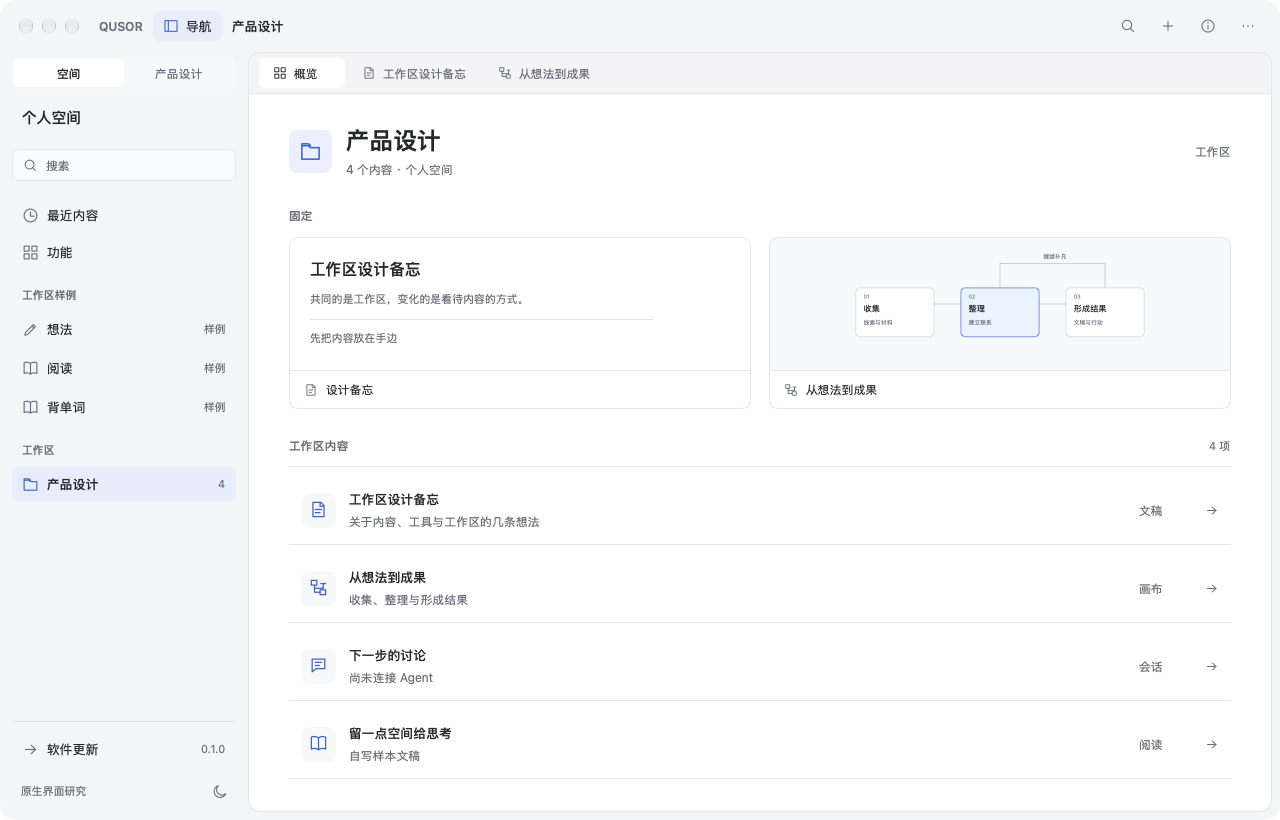
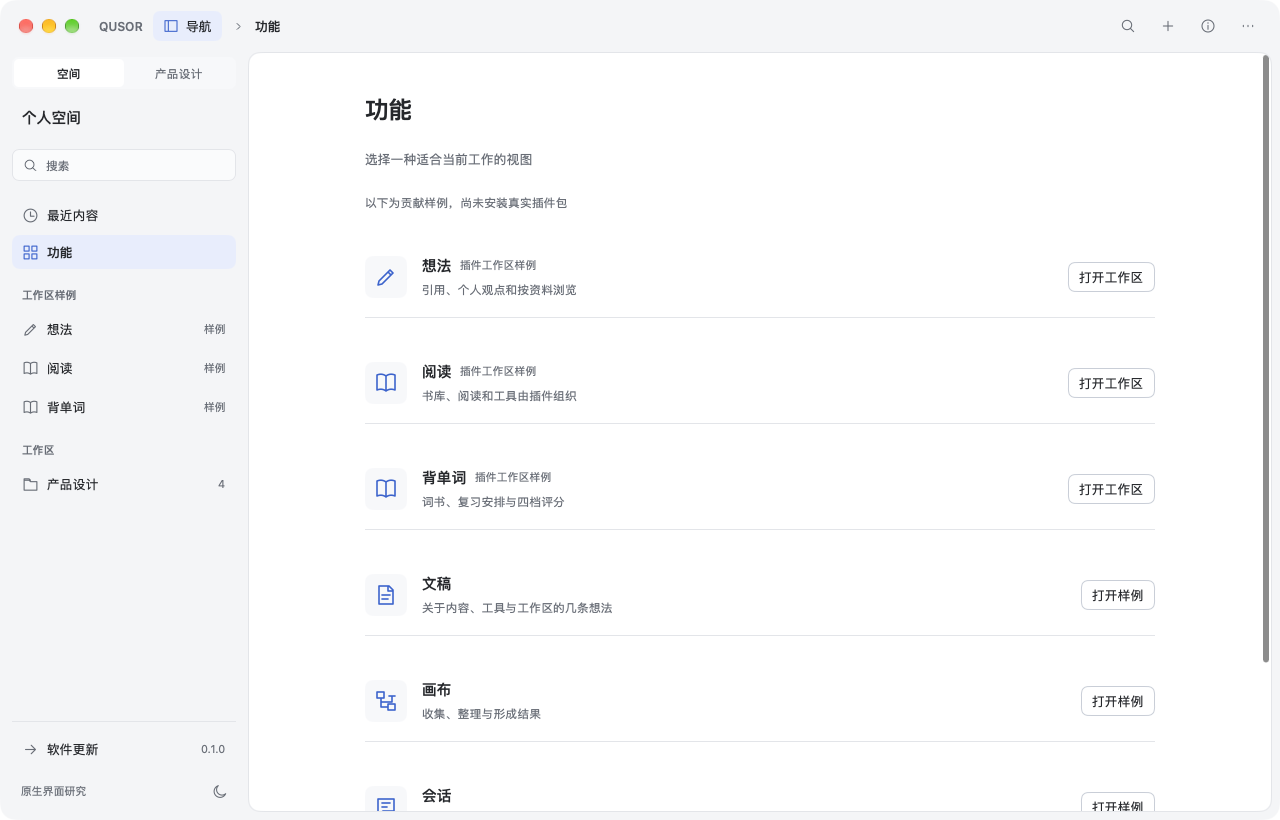
docs: pin the draft release evidence to normalized history
Rebuild the draft from the normalized commit, record its exact target SHA and new asset digests, and replace pre-rewrite short commit references.

diff --git a/docs/product/release-and-update.md b/docs/product/release-and-update.md
@@ -12,7 +12,7 @@
 
 2026-11-11 同日执行：公开前隐私检查通过后，仓库已由 private 转为 public（`https://github.com/csic21/qusor`），历史已按下列规则重写。此后 `releases/latest/download/` 可免认证读取，自动更新的更新源前提成立。
 
-2026-11-12 首次云端发行验收：Release workflow [run 43136573631](https://github.com/csic21/qusor/actions/runs/43136573631) 在 `main@e1c025e` 成功完成 macOS 打包、签名清单与 draft 创建。draft `v0.1.0` 含 21,781,955 字节的 arm64 归档、`latest.json` 与 `latest.json.sig`；清单大小/SHA-256、Ed25519 域隔离签名、ad hoc code signature 和实际窗口启动均已复核。此前 run 42995272099 的空 `*.zip` glob 失败已由 `e1c025e` 修复。详见 [GitHub draft Release 验收](../../experiments/nsh-reader/evidence/github-release/README.md)。
+2026-11-12 首次云端发行验收：Release workflow [run 43142491761](https://github.com/csic21/qusor/actions/runs/43142491761) 在 `main@62a82e6` 成功完成 macOS 打包、签名清单与 draft 创建，draft 的 `targetCommitish` 固定为该 SHA。draft `v0.1.0` 含 21,786,549 字节的 arm64 归档、`latest.json` 与 `latest.json.sig`；清单大小/SHA-256、Ed25519 域隔离签名、ad hoc code signature 和实际窗口启动均已复核。此前 run 42995272099 的空 `*.zip` glob 失败已由后续提交修复。详见 [GitHub draft Release 验收](../../experiments/nsh-reader/evidence/github-release/README.md)。
 
 ## 现状（2026-11-12 核对）
 
@@ -22,15 +22,15 @@
 | 版本号 | 应用为 `0.1.0`/`build 1`；已创建 draft `v0.1.0`，尚未发布 | [Release 验收](../../experiments/nsh-reader/evidence/github-release/record.json) |
 | 更新签名密钥 | 更新公钥已内置；私钥保存在本机 `.local/keys` 与 GitHub secret `NSH_UPDATE_KEY`，未提交。draft 清单已用该密钥签名并由独立 OpenSSL 复算通过 | 同左 |
 | 打包 | 生产入口使用 `nsh package --target macos`，产出 ad hoc `QUSOR.app` 和归档；实验目录仍有早期自建 Preview 包装 | `apps/qusor`、[Release 验收](../../experiments/nsh-reader/evidence/github-release/README.md) |
-| CI | `foundation.yml` 三 OS Core/库任务通过；`release.yml` 的 macOS package 与 publish 在 run 43136573631 首次完整通过并创建 draft | run 43136573631；[平台缺口](../../adapters/extension-store/tests/platform_profile.rs) |
+| CI | `foundation.yml` 三 OS Core/库任务通过；`release.yml` 的 macOS package 与 publish 在 run 43142491761 首次完整通过并创建固定 SHA 的 draft | run 43142491761；[平台缺口](../../adapters/extension-store/tests/platform_profile.rs) |
 | 移动端 | 仅 5 个 target 的**库交叉编译**通过；无 iOS/Android 宿主、无设备运行、无分发 | 同 run 的 `portable-libraries` 全部通过 |
 
 ### CI 失败根因与处理（2026-11-11）
 
 - **ubuntu**：`adapters/extension-store/src/verified_cache_tests.rs` 的断言停在“支持 3 个 Host API”，实际已是 4（未提交工作树为 5）。该文件带 `#![cfg(target_os = "linux")]`，macOS 本机不编译，所以长期没被发现。
 - **windows**：`adapters/extension-store/tests/component.rs` 三例在 `Store::open_for_host` 处失败，对应 [跨平台结果](../../experiments/nsh-reader/CROSS_PLATFORM_RESULTS.md) 已记录的 Windows 私有存储/文件适配缺口。
-- **ubuntu**：`adapters/extension-store/src/verified_cache_tests.rs` 的 Host API 数量断言已改为预算断言（`<= 8`），“不支持版本”改用 `u16::MAX`（提交 `12519cd`），不再随 API 增加失效。
-- **windows**：`adapters/extension-store/tests/component.rs` 的三例真实 store 场景只在 Unix 有合格文件系统 profile（0700 目录、no-follow 包读取、单一 writer lease）。Windows 的私有存储 ACL 与 SQLite/blob 适配器仍未实现，因此测试按平台跳过（`#![cfg(unix)]`），另加 `tests/platform_profile.rs`：Unix 断言能打开并持有 writer lease，Windows 断言 `StoreErrorCode::Unsupported` 且诊断含 `qualified native filesystem profile`。这样 Windows 任务仍然运行并固定“故意拒绝”，而不是把跳过当成能力覆盖（提交 `8851c10`、`78f0666`）。
+- **ubuntu**：`adapters/extension-store/src/verified_cache_tests.rs` 的 Host API 数量断言已改为预算断言（`<= 8`），“不支持版本”改用 `u16::MAX`（提交 `113950b`），不再随 API 增加失效。
+- **windows**：`adapters/extension-store/tests/component.rs` 的三例真实 store 场景只在 Unix 有合格文件系统 profile（0700 目录、no-follow 包读取、单一 writer lease）。Windows 的私有存储 ACL 与 SQLite/blob 适配器仍未实现，因此测试按平台跳过（`#![cfg(unix)]`），另加 `tests/platform_profile.rs`：Unix 断言能打开并持有 writer lease，Windows 断言 `StoreErrorCode::Unsupported` 且诊断含 `qualified native filesystem profile`。这样 Windows 任务仍然运行并固定“故意拒绝”，而不是把跳过当成能力覆盖（提交 `8391d9c`、`ff5045b`）。
 - 结果：2026-11-11 run 42987643346 三个 OS 的 `Core foundation` 与五个 `portable-libraries` 全部通过。Windows 仍不能运行 store/知识库；CI 绿不代表 Windows 产品资格。
 
 ## 固定 NSH 基线已有能力
@@ -153,7 +153,7 @@ cd apps/qusor && CARGO_PROFILE_RELEASE_STRIP=none \
 1. ~~修 Windows store 测试（或显式标记平台跳过并记录缺口），让 CI 恢复绿。~~ 已完成：Windows 任务显式固定拒绝路径，run 42987643346 三 OS 通过；Windows 能力缺口保留。
 2. ~~新建 `apps/qusor` 入口，跑通 `nsh package --target macos` 实窗。~~ 已完成（ad hoc `.app`，见下方“生产应用首次打包”）。
 3. ~~写 `version`/`build`/`updater`/图标，本地用 `nsh update-manifest` 与本地 HTTP 自测一次更新流程。~~ 更新 UI 与本地回环自测已实现，实测结果见下方“应用内自动更新本机实测”。
-4. ~~加发版 workflow，先 `workflow_dispatch` 出 draft Release。~~ 已完成：run 43136573631 的 macOS draft 与产物验收通过。
+4. ~~加发版 workflow，先 `workflow_dispatch` 出 draft Release。~~ 已完成：run 43142491761 的 macOS draft 与产物验收通过，且 draft 固定到源码 SHA。
 5. 仓库已转 public；人工复核 draft 后发布，并用公开 `releases/latest/download` 验证真实在线更新。**首个发布必须已内置 updater 配置**，否则已装版本收不到自动更新。
 6. 再推进 Android/iOS 打包与真机资格。
 

diff --git a/experiments/nsh-reader/evidence/github-release/README.md b/experiments/nsh-reader/evidence/github-release/README.md
@@ -4,15 +4,15 @@
 
 ## 结果
 
-GitHub Actions 在 `main@e1c025e` 手动运行 [Release workflow](https://github.com/csic21/qusor/actions/runs/43136573631)，`Package (macos)` 与 `Publish the release` 均成功，创建 draft `v0.1.0`。此前同流程在 [run 42995272099](https://github.com/csic21/qusor/actions/runs/42995272099) 已成功打包，却因未匹配的 `*.zip` glob 被当成字面路径传给 `nsh update-manifest` 而失败；`e1c025e` 的 `nullglob` 修复消除了该失败。
+GitHub Actions 在 `main@62a82e6` 手动运行 [Release workflow](https://github.com/csic21/qusor/actions/runs/43142491761)，`Package (macos)` 与 `Publish the release` 均成功，创建 draft `v0.1.0`，`targetCommitish` 精确指向本次 SHA。此前同流程在 [run 42995272099](https://github.com/csic21/qusor/actions/runs/42995272099) 已成功打包，却因未匹配的 `*.zip` glob 被当成字面路径传给 `nsh update-manifest` 而失败；后续 `nullglob` 修复与本次验证均消除了该失败。
 
 Release 包含三项资产：
 
 | 资产 | 大小 | SHA-256 |
 |---|---:|---|
[6 lines of base64/hex data omitted]
 
 ## 实际检查
 
@@ -20,12 +20,12 @@ Release 包含三项资产：
 - 从应用包内 `nsh.json` 的 `updater.publicKey` 构造 Ed25519 公钥，用 OpenSSL 独立验证签名。固定 NSH 对 `latest.json` 的签名载荷带域隔离前缀 `nsh-updater-manifest\0`；按该 framing 验证成功。
 - 归档可正常解出 `QUSOR.app`；`Info.plist` 为 `org.qusor.app`、`0.1.0`、build `1`，可执行文件为 arm64 Mach-O。
 - `codesign --verify --deep --strict` 通过；签名类型为 ad hoc，没有 Team ID。
-- 把下载产物解出到临时目录后实际启动，进程创建了原生窗口（窗口 id 4715），侧栏显示 `0.1.0`，随后正常退出。窗口截图见 [release-app.png](release-app.png)。
+- 把下载产物解出到临时目录后实际启动，进程创建了原生窗口（窗口 id 4837），侧栏显示 `0.1.0`，随后正常退出。窗口截图见 [release-app.png](release-app.png)。
 - 同一工作树最终源码的完整更新自测与根 Workspace 回归另行通过；机器数据见 [record.json](record.json)。
 
 ## 未覆盖
 
 - Release 仍是 draft，没有发布为 latest；因此 `releases/latest/download/latest.json` 的真实免认证拉取与已发布应用的在线更新尚未验证。
 - 只有 ad hoc 签名，没有 Developer ID、notarization 或 Gatekeeper 放行；没有 Windows/Linux/移动端发行。
-- 首次云端构建来自 `e1c025e`。工作树后续对更新源显示、证据标记和 workflow 的收紧尚未进入该 draft。
+- 为满足提交时间约束，`main` 历史已归一化；draft 由归一化后的 `62a82e6` 重新构建，源码内容与时间整理前冻结 tree 一致。
 - 证据是本机一次验收，不是独立维护者对同一冻结产物的复跑。

diff --git a/docs/product/next-phase.md b/docs/product/next-phase.md
@@ -1,4 +1,4 @@
-2026-11-12 应用内自动更新与首次云端 draft：`apps/qusor` 的更新面板现在从应用包内 `nsh-updater.json` 读取并显示实际更新源；一次性重启标记同时绑定版本与 build，并限制为 15 分钟内且证据目录仍存在。最终本机回环自测 0.1.0→0.1.1 再次走通签名清单、下载校验、原地替换、重启与同一 Core 读取，17 项断言通过、98.6 秒，见[更新记录](../../experiments/nsh-reader/evidence/app-update/README.md) 与[设计](../design/update-dialog.md)。Release workflow [run 43136573631](https://github.com/csic21/qusor/actions/runs/43136573631) 在 `main@e1c025e` 成功产出 macOS 归档、签名清单并创建 draft `v0.1.0`；下载的 21,781,955 字节 arm64 归档完成 SHA-256、Ed25519 独立验签、ad hoc code signature 与实窗启动，见[draft 验收](../../experiments/nsh-reader/evidence/github-release/README.md)。draft 尚未公开为 latest，GitHub Releases 线上拉取、拒绝路径、公证/商店签名、其它平台与正式发布仍未验证。
+2026-11-12 应用内自动更新与首次云端 draft：`apps/qusor` 的更新面板现在从应用包内 `nsh-updater.json` 读取并显示实际更新源；一次性重启标记同时绑定版本与 build，并限制为 15 分钟内且证据目录仍存在。最终本机回环自测 0.1.0→0.1.1 再次走通签名清单、下载校验、原地替换、重启与同一 Core 读取，17 项断言通过、98.6 秒，见[更新记录](../../experiments/nsh-reader/evidence/app-update/README.md) 与[设计](../design/update-dialog.md)。Release workflow [run 43142491761](https://github.com/csic21/qusor/actions/runs/43142491761) 在 `main@62a82e6` 成功产出 macOS 归档、签名清单并创建固定到该 SHA 的 draft `v0.1.0`；下载的 21,786,549 字节 arm64 归档完成 SHA-256、Ed25519 独立验签、ad hoc code signature 与实窗启动，见[draft 验收](../../experiments/nsh-reader/evidence/github-release/README.md)。draft 尚未公开为 latest，GitHub Releases 线上拉取、拒绝路径、公证/商店签名、其它平台与正式发布仍未验证。
 
 2026-11-11 发行与自动更新方向：用户要求通过 GitHub Release 发版、GitHub Actions 构建，并确认主仓库转 public 作更新源、应用改造成 `nsh package` 形态、当前尚无签名账号。现状（无 updater 接线、无版本号、无 Release；最近 CI 的 ubuntu 与 windows 失败）与分阶段计划见 [发行与更新](release-and-update.md)。下一步先修 CI 与 Windows store 缺口，再建 `apps/qusor` 入口并跑通 `nsh package --target macos`。
 

diff --git a/docs/product/scope.md b/docs/product/scope.md
@@ -1,6 +1,6 @@
 # QUSOR 功能基线与范围确认
 
-2026-11-12，生产应用与首次云端发行继续推进：`apps/qusor/` 保持独立 workspace（provider/bridges/native），NSH 以 Git revision 固定，随包插件资产由 `prepare.py` 生成，`nsh.json` 内置 updater。Release workflow run 43136573631 已在 GitHub Actions 成功产出 macOS arm64 `QUSOR-0.1.0` 归档、签名 `latest.json` 并创建 draft `v0.1.0`；下载产物通过清单摘要、Ed25519 独立验签、ad hoc code signature 与实窗启动检查。决策见 [ADR 0037](../architecture/adr/0037-production-app-assembly.md)，机器记录见 [draft 验收](../../experiments/nsh-reader/evidence/github-release/README.md)。draft 尚未公开为 latest，线上自动更新拉取、PDF 阅读/编辑生产 UI、Windows/Linux 打包与签名账号仍未完成。
+2026-11-12，生产应用与首次云端发行继续推进：`apps/qusor/` 保持独立 workspace（provider/bridges/native），NSH 以 Git revision 固定，随包插件资产由 `prepare.py` 生成，`nsh.json` 内置 updater。Release workflow run 43142491761 已在 GitHub Actions 成功产出 macOS arm64 `QUSOR-0.1.0` 归档、签名 `latest.json` 并创建固定到源码 SHA 的 draft `v0.1.0`；下载产物通过清单摘要、Ed25519 独立验签、ad hoc code signature 与实窗启动检查。决策见 [ADR 0037](../architecture/adr/0037-production-app-assembly.md)，机器记录见 [draft 验收](../../experiments/nsh-reader/evidence/github-release/README.md)。draft 尚未公开为 latest，线上自动更新拉取、PDF 阅读/编辑生产 UI、Windows/Linux 打包与签名账号仍未完成。
 
 2026-11-11，用户询问自动更新与手机端进度，并建议“通过 GitHub Release 发版本、GitHub Actions 构建”。新增 C-17、F-PLAT-02（发行与自动更新），关联 C-15、F-PLAT-01、F-DATA-01：确认更新源使用主仓库 GitHub Releases（仓库转 public，`updater.github`，免认证的 `releases/latest/download/`）；应用先改造成 `nsh package` 形态（`apps/` 生产入口），一次取得桌面打包、自动更新、OTA 与 Android/iOS 打包；当前既无 Apple Developer Program 账号也无 Android 发布 keystore，只能产出 ad hoc／调试签名产物。现状核对与流水线设计见 [发行与更新](release-and-update.md)。本轮不创建 tag 或 Release、不改仓库可见性、不生成生产密钥；移动端仍只有库交叉编译，不构成支持。
 

diff --git a/docs/architecture/adr/0037-production-app-assembly.md b/docs/architecture/adr/0037-production-app-assembly.md
@@ -31,7 +31,7 @@
 - 生产目录出现与实验目录的**临时重复**（provider、三个桥接模块、两个 native 模块）。后续应把实验侧改为依赖生产 crate，或把实验冻结为归档；此前的实验证据路径保持不变，但重跑脚本仍指向实验副本。
 - 生产应用尚未接入 PDF 阅读/编辑 UI：`App.tsx` 当前是工作台外壳（想法/背单词真实 Core，其余为窗口内 fixture）。阅读器 UI 依赖的 `ReaderSurface`/`DynamicReader`/`NativeEditor` 原生模块仍在实验宿主，接入需要一个单独的界面积分切片。
 - 缺少应用 workspace 的依赖图校验、Windows/Linux 交叉打包实测、真机与商店签名资格。
-- 自动更新在本机回环源上验证接受路径；GitHub Actions run 43136573631 已成功构建并创建 draft `v0.1.0`，下载产物完成清单 SHA-256、Ed25519 签名、ad hoc code signature 与实窗启动验收。draft 尚不是 latest，拒绝路径、Developer ID/公证、其它平台替换与移动端商店/OTA 语义未验证。
+- 自动更新在本机回环源上验证接受路径；GitHub Actions run 43142491761 已成功构建并创建固定到 `62a82e6` 的 draft `v0.1.0`，下载产物完成清单 SHA-256、Ed25519 签名、ad hoc code signature 与实窗启动验收。draft 尚不是 latest，拒绝路径、Developer ID/公证、其它平台替换与移动端商店/OTA 语义未验证。
 
 ## 未验证
 
